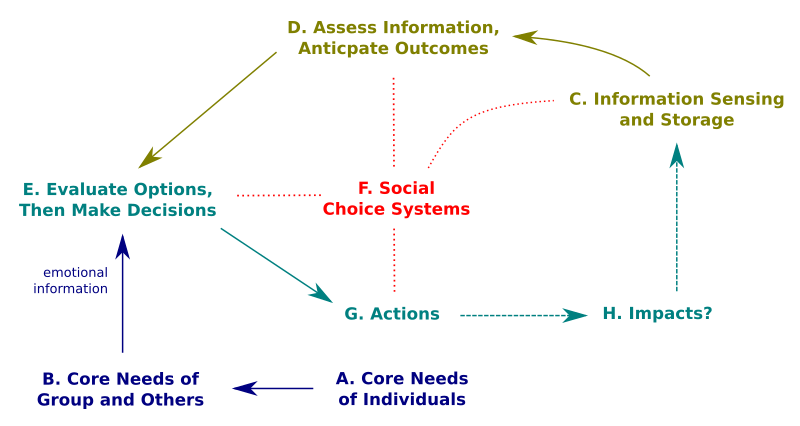
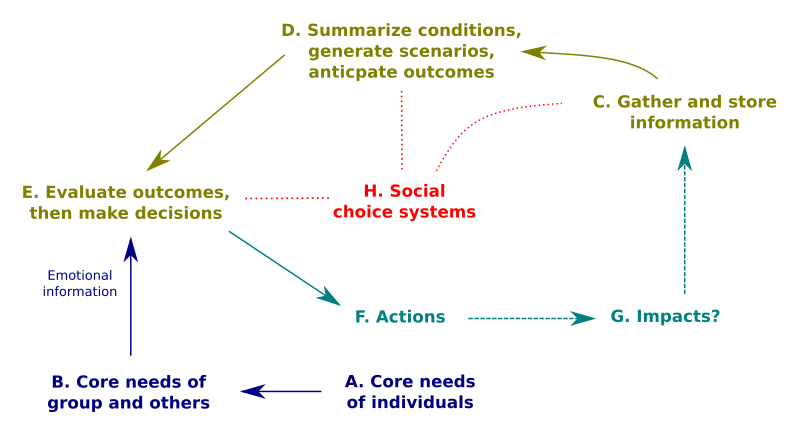
problem solving images

diff --git a/leddaApp/templates/index.html b/leddaApp/templates/index.html
@@ -92,7 +92,7 @@
       <p>Organizations and individuals face their own kinds of specific challenges, like budget shortfalls and decisions about careers and health. More generally, however, problems that matter are the ones that directly relate to core human needs. 
       </p>
   
-      <p>Figure 1 illustrates the group problem-solving process. Groups inherit needs from individuals (<span style="color:#000080">A,B</span>); gather and store information (<span style="color:#808000">C</span>); and process information and predict outcomes (<span style="color:#808000">D</span>). They evaluate predictions using emotional information and then make decisions (<span style="color:#008080">E</span>). Based on decisions they take actions (<span style="color:#008080">G</span>), which may alter conditions (<span style="color:#008080">H</span>). Learning occurs as the process cycles. 
+      <p>Figure 1 illustrates the group problem-solving process. Groups inherit core needs from individuals (<span style="color:#000080">A,B</span>). Guided by needs, they gather and store information (<span style="color:#808000">C</span>); process information and predict outcomes (<span style="color:#808000">D</span>); evaluate predictions using emotional information and make decisions (<span style="color:#808000">E</span>). They take actions (<span style="color:#008080">F</span>) based on decisions and those actions may alter conditions (<span style="color:#008080">G</span>). Learning occurs as the process cycles. 
       </p>      
 
       <figure class="center">
